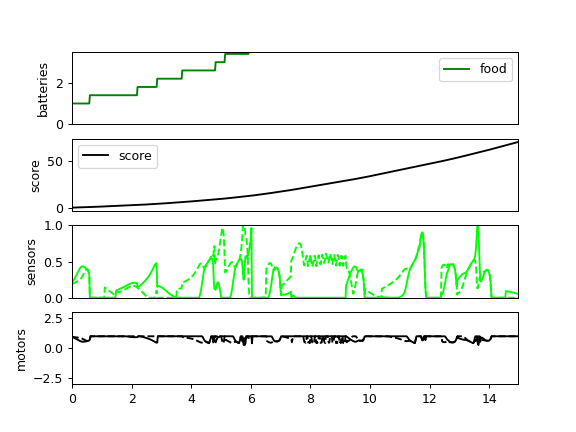
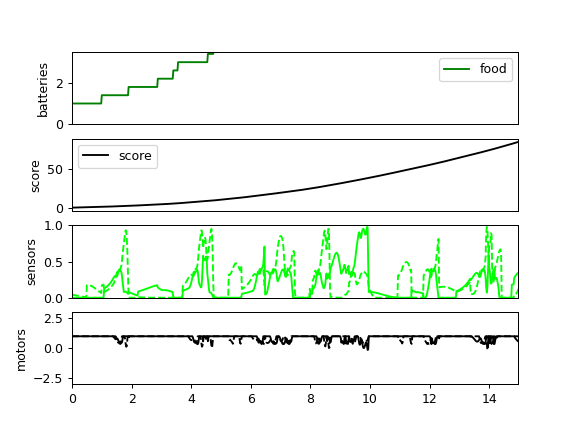
Now trying to get the animate_best.py to work with multiple robots

diff --git a/evolve.py b/evolve.py
@@ -78,9 +78,9 @@ def simulate_trial(controllers, trial_index, generating_animation=False):
     robots = [Robot()] * PER_GROUP
     for i in range(len(robots)):
         robots[i] = Robot()
-        robots[i].x = 0.0
-        robots[i].y = 0.0
-        robots[i].a = 0.0
+        robots[i].x = random.uniform(0, 1)
+        robots[i].y = random.uniform(0, 1)
+        robots[i].a = random.uniform(0, 1)
 
     # get the controller for the robot from the population
     for controller in controllers:
@@ -254,12 +254,14 @@ def generation():
     # ## every nth generation, we plot the trajectories of the best and
     # ## worst individual
     if (generation_index % DRAW_EVERY_NTH_GENERATION) == 0:
+        all_individuals.sort(key=lambda x: x.fitness)
+        fitnesses.sort()
         best_index = np.argmax(fitnesses)
 
         plot_state_history(savepath, all_individuals[best_index], 'best')
         all_individuals[best_index].plot_links('best')
-
-        np.save(os.path.join(savepath, 'best_genome.npy'), all_individuals[best_index].genome)
+        for index in range(PER_GROUP):
+            np.save(os.path.join(savepath, '{}_genome.npy'.format(index)), all_individuals[-index].genome)
 
         """worst_index = np.argmin(fitnesses)
         plot_state_history(savepath, all_individuals[worst_index], 'worst')

diff --git a/animate_best.py b/animate_best.py
@@ -2,6 +2,7 @@ from pylab import *
 from matplotlib.animation import FuncAnimation
 
 from evolve import simulate_trial
+from evolve import PER_GROUP
 from seth_controller import SethController,EntityTypes,ENTITY_RADIUS
 import os
 plt.switch_backend('TkAgg')
@@ -9,11 +10,13 @@ plt.switch_backend('TkAgg')
 its_per_frame = 1
 delay_between_frames = 50 # ms
 
-loadme = os.path.join('output','best_genome.npy')
+# loadme = os.path.join('output','best_genome.npy')
 
-best_genome = np.load(loadme)
+genomes = []
+for index in range(PER_GROUP):
+    genomes.append(np.load("output/{}_genome.npy".format(index)))
 
-controller = SethController(genome = best_genome)
+controller = [SethController(genome = genome) for genome in genomes]
 
 seed = np.random.randint(1000)
 simulate_trial(controller,seed,generating_animation=True)
